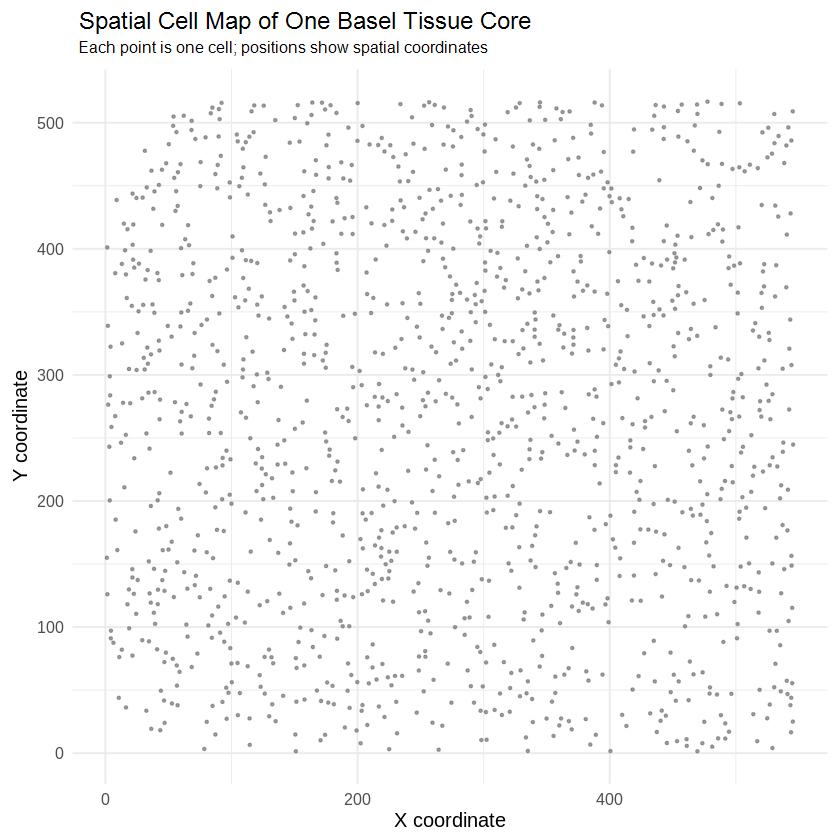
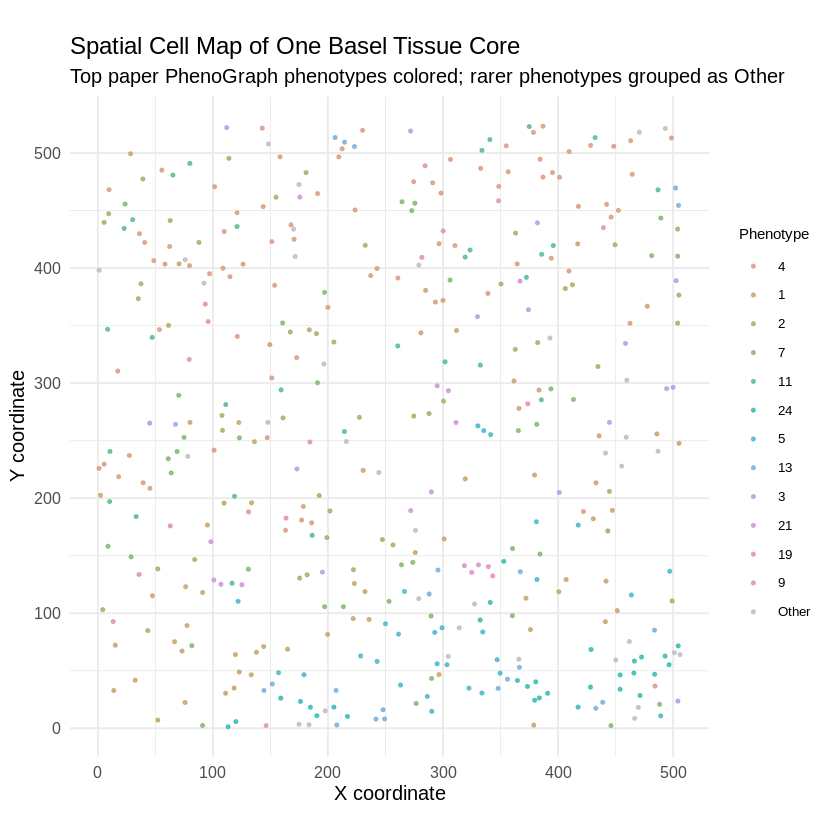
Remove manifest.json and contact_sheet from repo

diff --git a/README.md b/README.md
@@ -68,7 +68,6 @@ The notebook also runs a small independent PhenoGraph clustering demonstration o
 | --- | --- |
 | `SurvivalAnalysis_github.ipynb` | Cleaned notebook with outputs preserved. |
 | `images/` | Extracted PNG figures from the notebook outputs. |
-| `images/manifest.json` | Figure extraction manifest: filename, notebook cell, and output index. |
 | `README.md` | Project explanation, figure guide, key outputs, and run guide. |
 
 ## Results